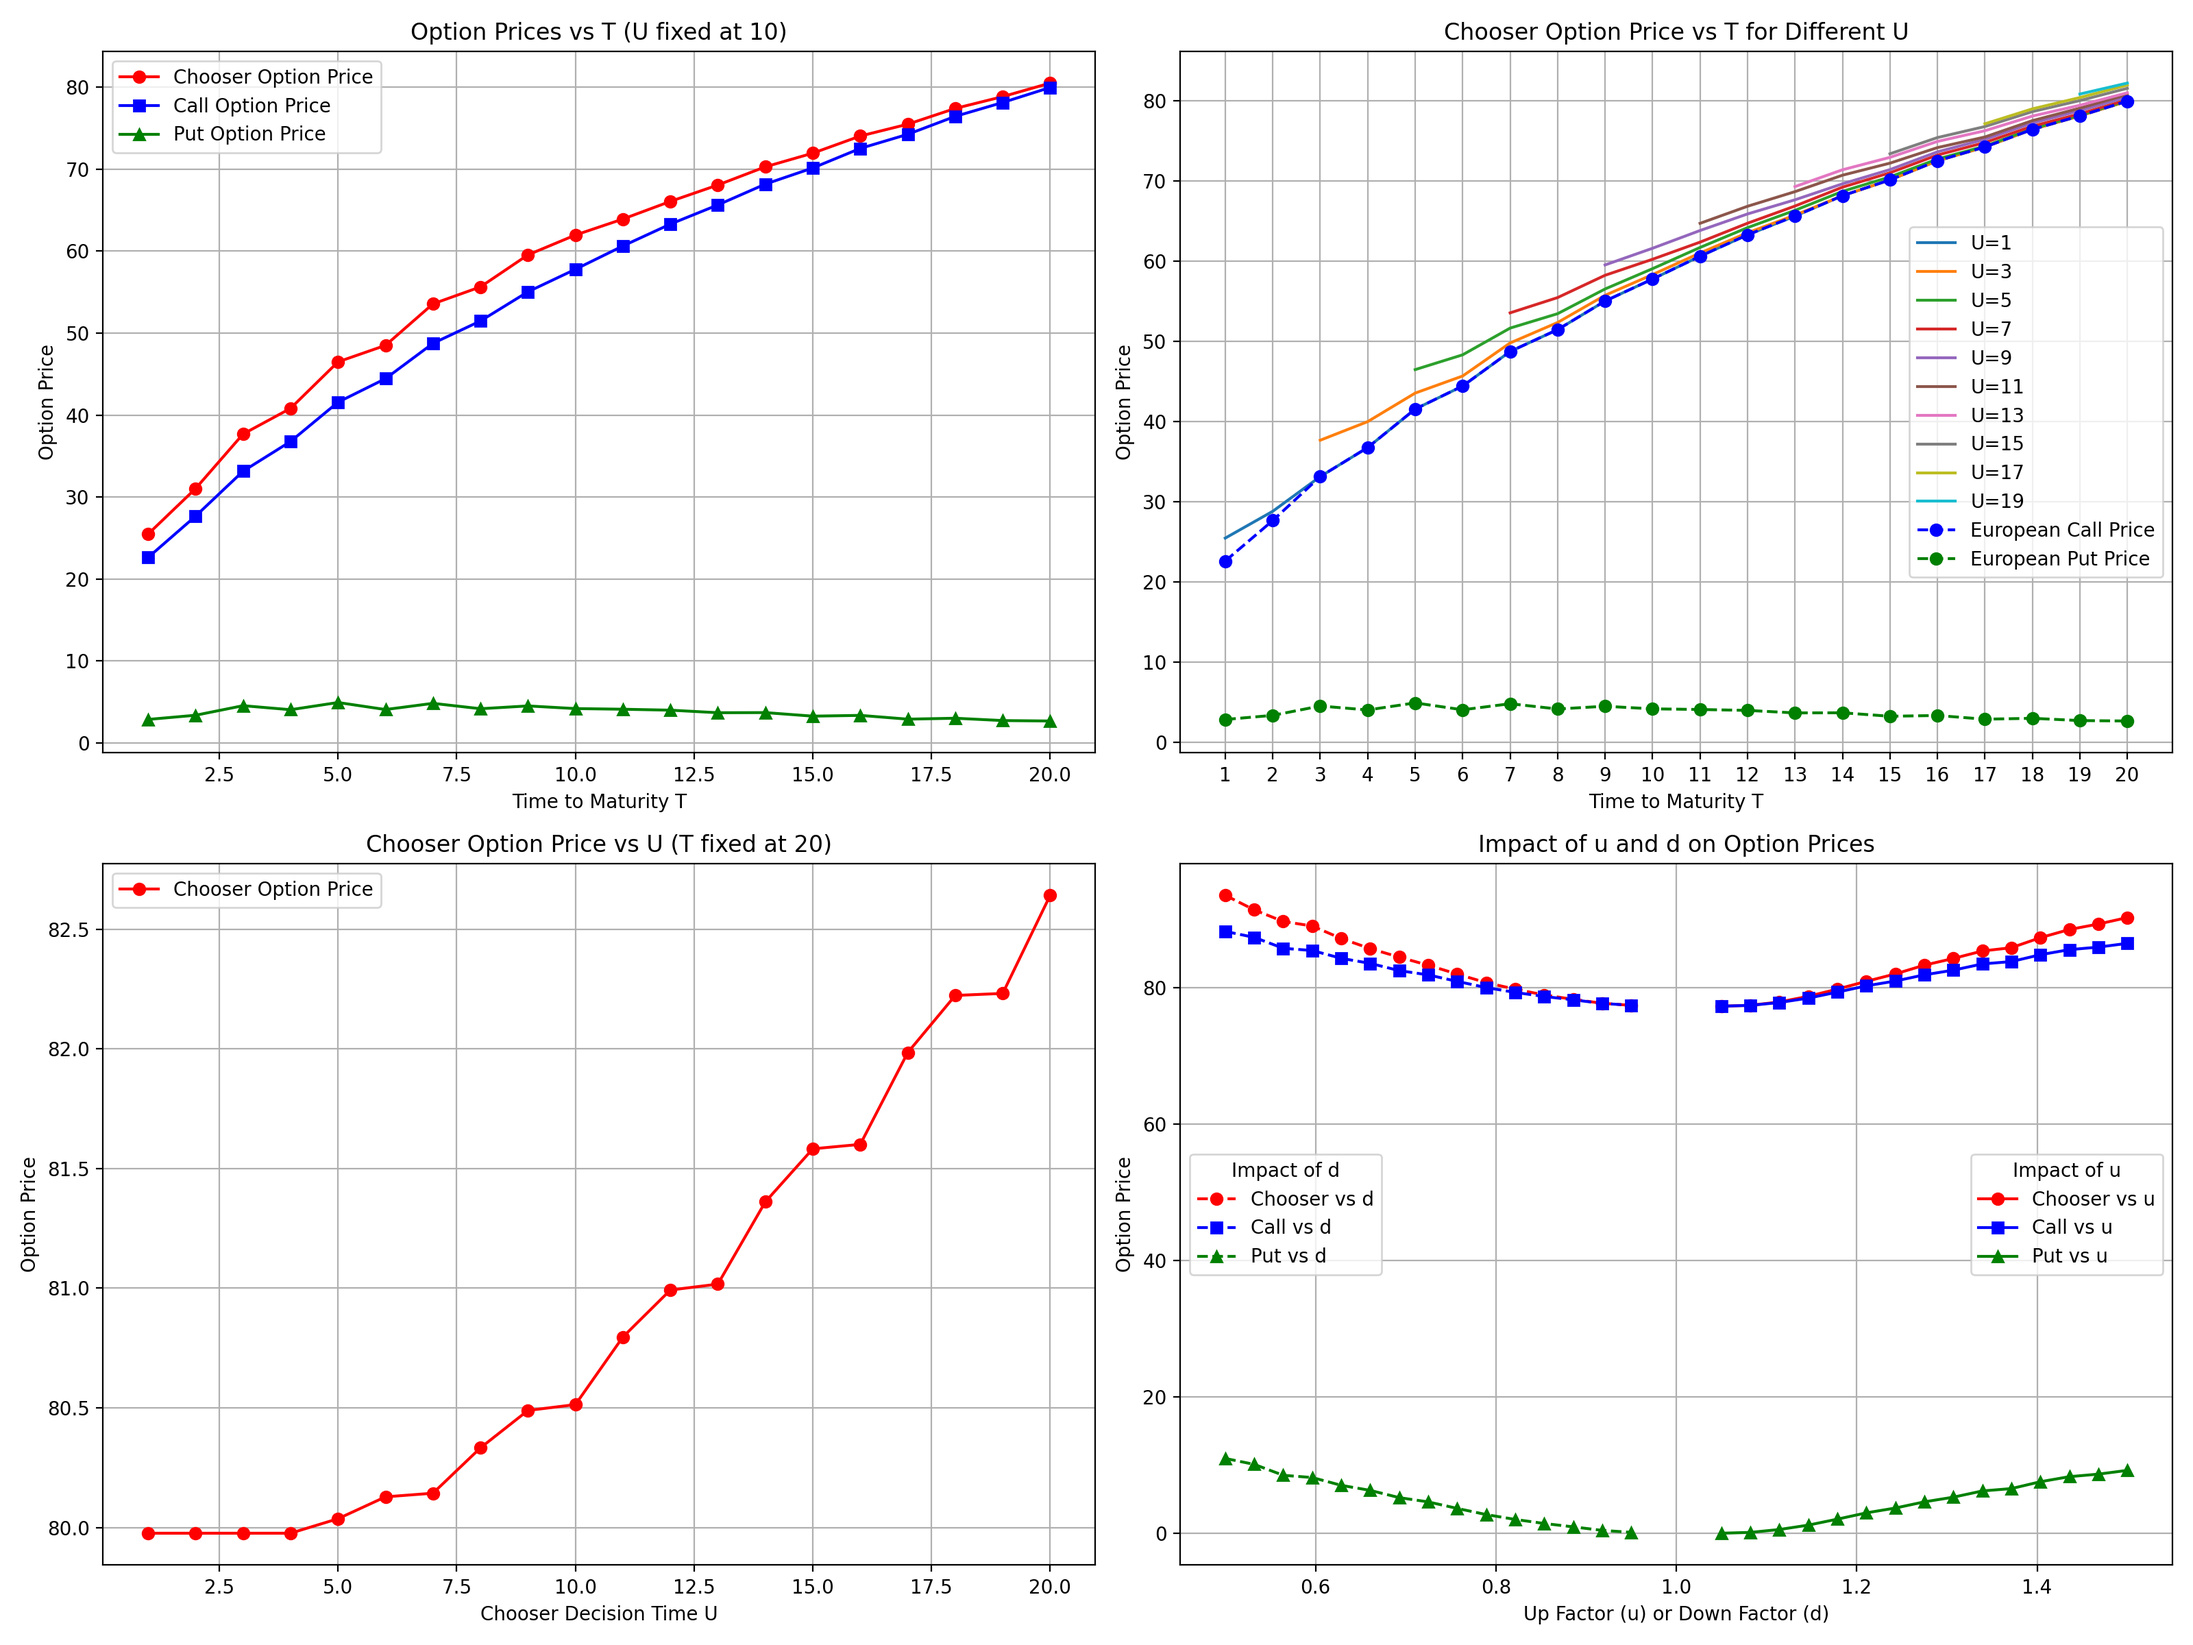
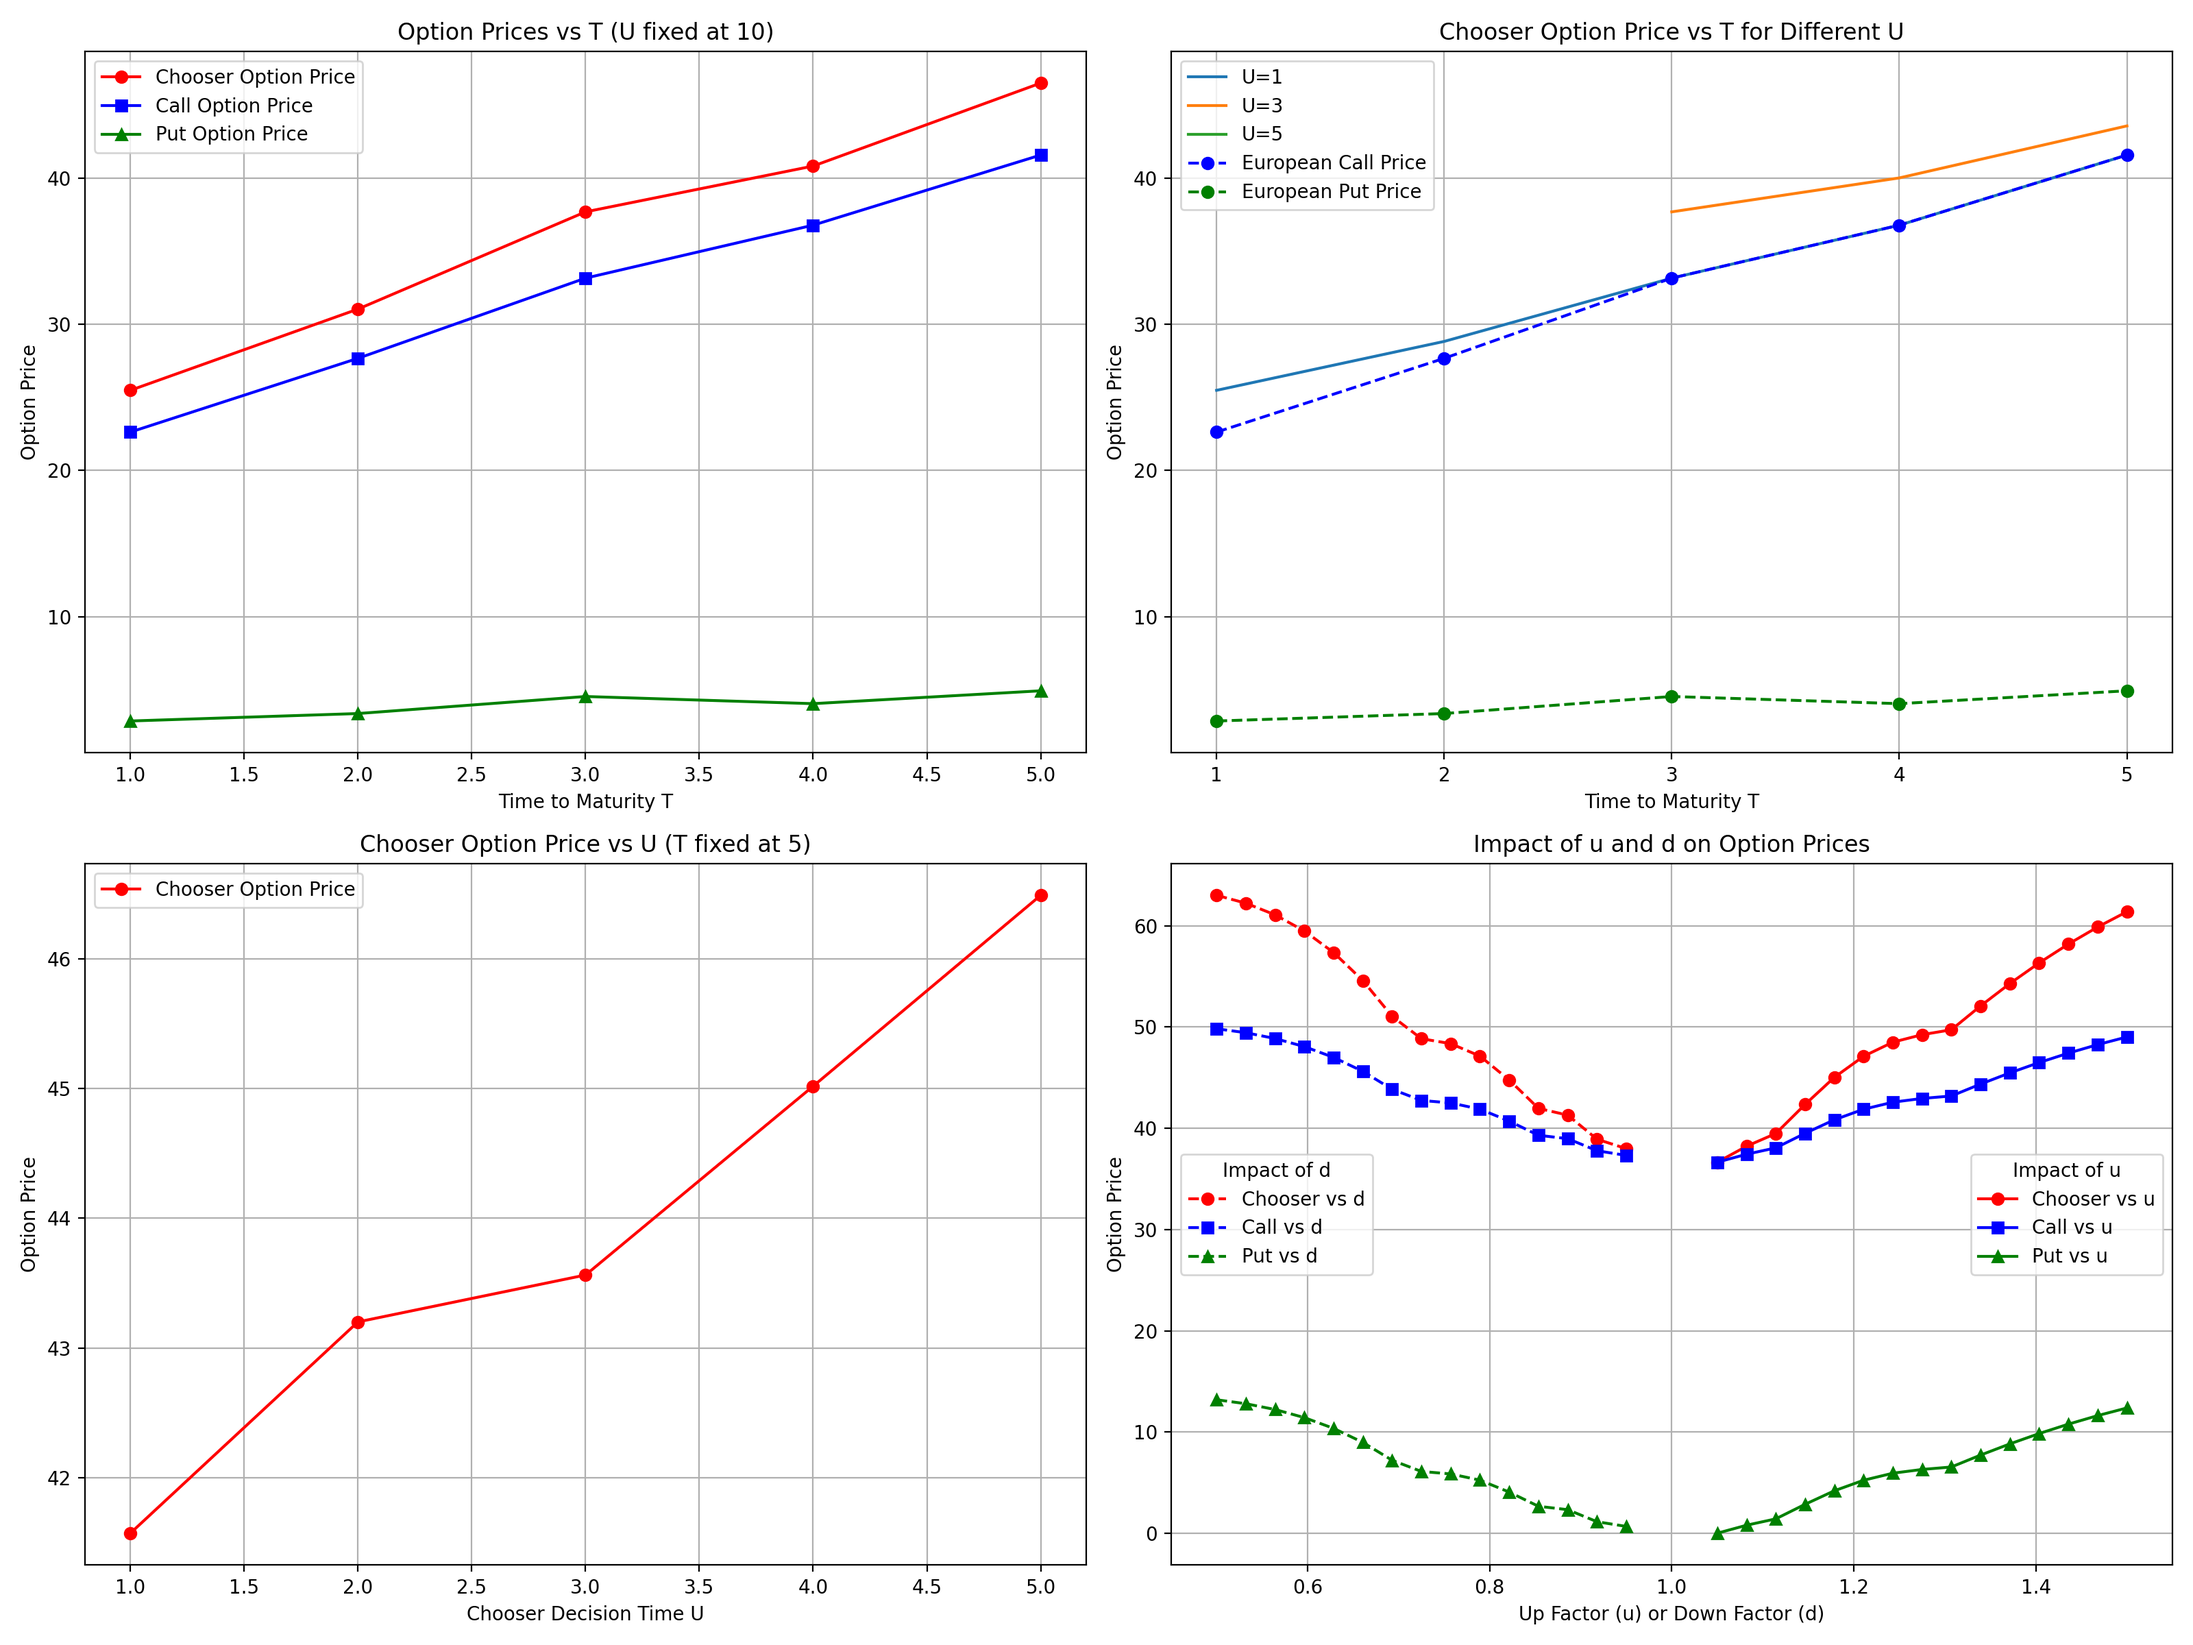
docs: add plot and update script

diff --git a/Chooser_Option.py b/Chooser_Option.py
@@ -1,12 +1,13 @@
 import matplotlib.pyplot as plt
 import numpy as np
+import os
 
-S0 = 100
+S0 = 115
 u = 1.2
 d = 0.8
 r = 0.05
 K = 100
-T = 20
+T = 5
 U = 10
 
 def build_price_tree(S0, u, d, T):
@@ -170,5 +171,13 @@ legend_d = axs[1, 1].legend(handles=[
 axs[1, 1].add_artist(legend_u)
 axs[1, 1].grid(True)
 
+# --- SAVE PLOT (place at the very end, after all plotting) ---
+import os
+out_dir = os.path.join(os.path.dirname(__file__), "figures")
+os.makedirs(out_dir, exist_ok=True)
+out_path = os.path.join(out_dir, "chooser_plots.png")
+
 plt.tight_layout()
-plt.show()
+plt.savefig(out_path, dpi=200)
+print(f"[OK] Saved plot to: {out_path}")
+# plt.show()  # 需要弹窗再看就解开；不看就留着保存即可
